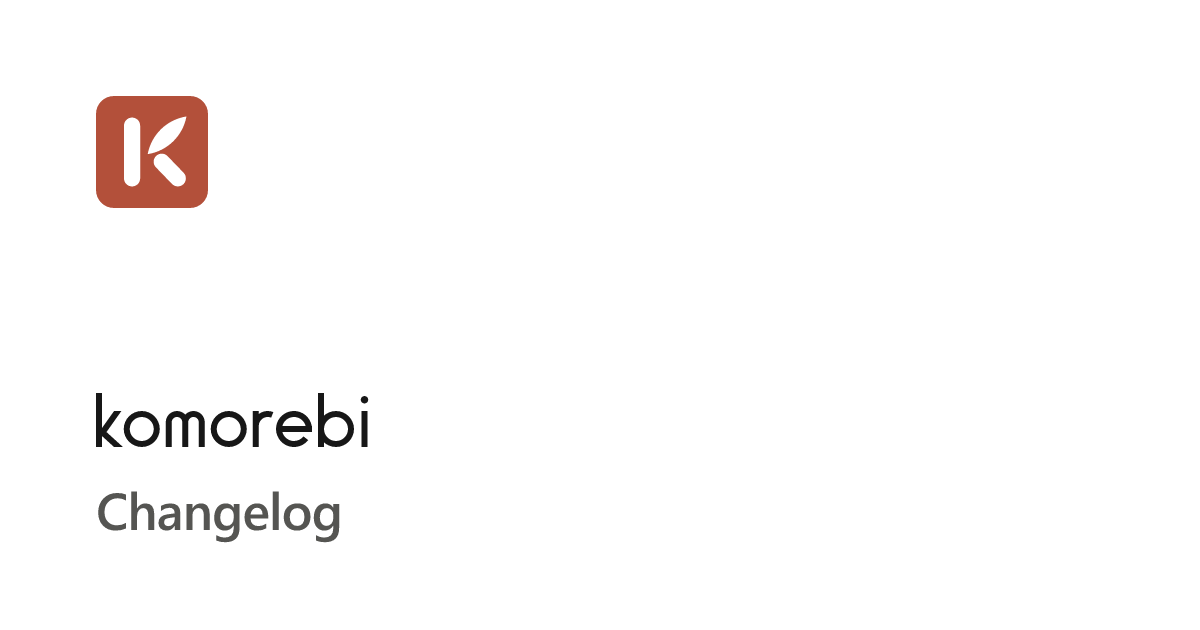
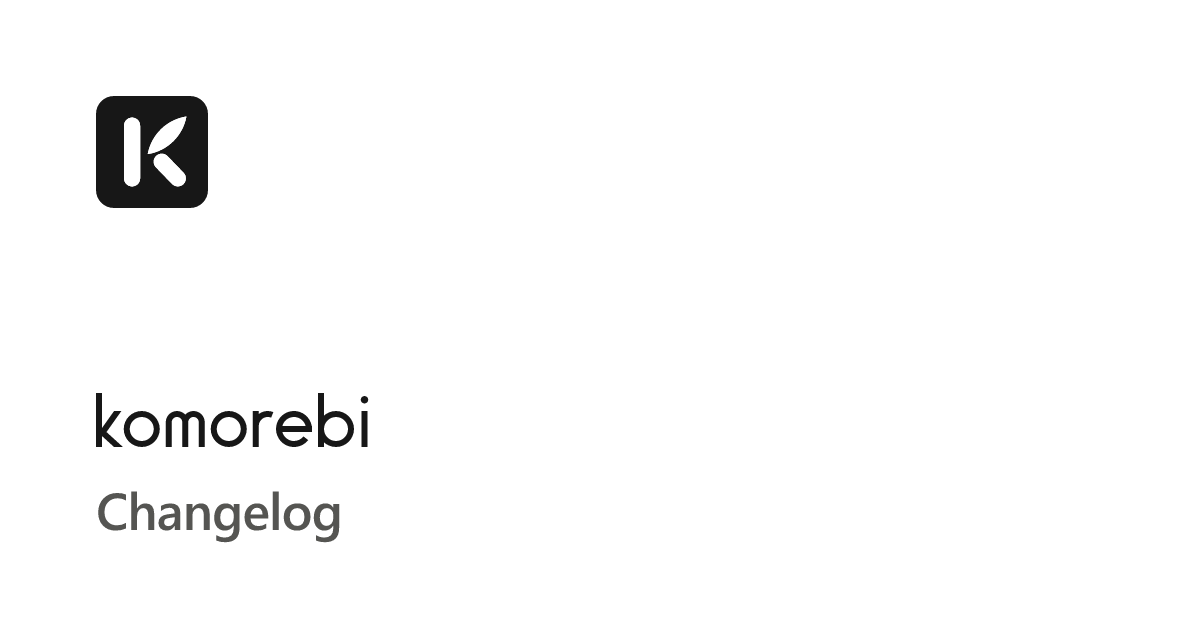
Neutral seal: the site has no accent colour
By the owner's decision the app logo becomes neutral, to match the K icon in the
app. The seal's colour is one token, --seal: ink with the K carved through to the
paper in light, the reverse in dark, so it can be set once when the app's final
icon colours are known. public/brand/*.svg, the favicon, the touch and manifest
icons and the Open Graph cards are regenerated from the same paths.

Changed region(s): [[0.0617, 0.1508, 0.185, 0.3317]]

diff --git a/src/styles/site.css b/src/styles/site.css
@@ -1,6 +1,6 @@
 /* Komorebi website. One stylesheet, inlined into every page.
-   Brand: F:\Projects\komorebi-brand\final (BRAND.md, site variant B). Paper, ink and greys; the
-   persimmon seal is the only colour and is never text. Controls are pills or circles; the seal is
+   Brand: D:\Projects\komorebi-brand\final (BRAND.md, site variant A). Paper, ink and greys, and no
+   accent colour: the seal is neutral (--seal), by the owner's decision of November 2026. Controls are pills or circles; the seal is
    the only square. No gradients, blur, glow or shadows; at most a 1 px edge. System fonts only.
    The interactive parts are UI SDK custom elements (ui-*): unstyled, so they are styled here by
    their element names (which also hold before they upgrade) and their data-* and ARIA states. UI SDK's own few rules sit in the ui-sdk layer,
@@ -16,7 +16,9 @@
   --ink-2: #555552;
   --ink-3: #6a6a66;
   --on-ink: #ffffff;
-  --seal: #b3503a;
+  /* the seal: neutral (owner decision, November 2026), an ink square with the K carved through to
+     the paper; the reverse in dark. One token, so the final app colours can be set here once. */
+  --seal: #171717;
   --fall: #f3f3f0;
   --overlay: rgb(0 0 0 / 0.32);
   /* the window's lift: a hairline ring and two soft, ink-tinted shadows */
@@ -50,6 +52,7 @@
     --ink-2: #b0b0ac;
     --ink-3: #939390;
     --on-ink: #141414;
+    --seal: #f2f2f0;
     --fall: #1d1d1d;
     --lift: 0 0 0 1px rgb(255 255 255 / 0.08), 0 2px 6px rgb(0 0 0 / 0.4), 0 24px 64px -16px rgb(0 0 0 / 0.7);
     --lift-sm: 0 0 0 1px rgb(255 255 255 / 0.07), 0 8px 24px -8px rgb(0 0 0 / 0.6);
@@ -65,6 +68,7 @@
   --ink-2: #b0b0ac;
   --ink-3: #939390;
   --on-ink: #141414;
+  --seal: #f2f2f0;
   --fall: #1d1d1d;
   --lift: 0 0 0 1px rgb(255 255 255 / 0.08), 0 2px 6px rgb(0 0 0 / 0.4), 0 24px 64px -16px rgb(0 0 0 / 0.7);
   --lift-sm: 0 0 0 1px rgb(255 255 255 / 0.07), 0 8px 24px -8px rgb(0 0 0 / 0.6);

diff --git a/docs/DESIGN.md b/docs/DESIGN.md
@@ -2,11 +2,11 @@
 
 The site follows the Komorebi brand (`D:\Projects\komorebi-brand\final`: `BRAND.md`, the mockups in `site\site.html` and `site\png`). This page records how the brand maps to this code.
 
-**Variant A.** The brand board drew two website heroes: A, the very large fall (the K's light, in the fall tone) at the right of the hero, and B, a plain 44 px seal. The site was first built on B; at the owner's request it now uses **A** (November 2026), because B left out the brand's one image. The fall is the seal's K alone, drawn inline from `logo/fall.svg`'s path (`src/components/Logo.astro`, kind `fall`) in `--fall`. It stands at the right of the home hero and runs off the page; the hero clips it sideways (`overflow-x: clip`, so no horizontal scroll and no scroll container). It never sits behind reading text: wider than a phone the copy is kept narrower than the room the fall leaves (`min(36rem, 54vw)`), and on a phone, as in `a-home-*-390.png`, the fall stands at the top right and the copy starts under it. The product window sits in front of the fall's foot. The persimmon seal stays above the headline, as on the app's welcome screen.
+**Variant A.** The brand board drew two website heroes: A, the very large fall (the K's light, in the fall tone) at the right of the hero, and B, a plain 44 px seal. The site was first built on B; at the owner's request it now uses **A** (November 2026), because B left out the brand's one image. The fall is the seal's K alone, drawn inline from `logo/fall.svg`'s path (`src/components/Logo.astro`, kind `fall`) in `--fall`. It stands at the right of the home hero and runs off the page; the hero clips it sideways (`overflow-x: clip`, so no horizontal scroll and no scroll container). It never sits behind reading text: wider than a phone the copy is kept narrower than the room the fall leaves (`min(36rem, 54vw)`), and on a phone, as in `a-home-*-390.png`, the fall stands at the top right and the copy starts under it. The product window sits in front of the fall's foot. The seal stays above the headline, as on the app's welcome screen.
 
 ## Rules
 
-- **One colour.** The persimmon seal `#B3503A` is the only colour, and it only fills the seal (`src/components/Logo.astro`). It is never text, a link, a button or a state. Everything else is paper, ink and greys.
+- **No accent colour.** The site is paper, ink and greys only. The seal was persimmon `#B3503A`; by the owner's decision of November 2026 it is neutral, to match the K icon in the app: an ink square with the K carved through to the paper in light, the reverse in dark. Its colour is one token, `--seal`, so it can be set once when the app's final icon colours are known. The favicon, the touch and manifest icons and the Open Graph cards use the neutral seal too (`public/brand/*.svg`, rendered by `pnpm og`).
 - **One square.** The seal is the only square. Controls are pills (radius half the height) or circles. The docs' `<kbd>` and code use the brand's 6 px code radius.
 - **Flat.** No gradients, blur, glow or shadows. The one edge is 1 px: table rules and the bottom of `<kbd>`.
 - **System fonts.** Segoe UI Variable Display for headings, Segoe UI Variable Text for text, then Segoe UI and `system-ui`. No web fonts.
@@ -28,7 +28,7 @@ All in `src/styles/site.css` as custom properties on `:root`.
 | `--ink-2` | `#555552` | `#B0B0AC` | secondary text |
 | `--ink-3` | `#6A6A66` | `#939390` | captions, small print |
 | `--on-ink` | `#FFFFFF` | `#141414` | text on ink |
-| `--seal` | `#B3503A` | `#B3503A` | the seal only |
+| `--seal` | `#171717` | `#F2F2F0` | the seal only (neutral; the K is carved through to `--paper`) |
 
 Contrast (WCAG 2), lowest pair per text colour:
 
